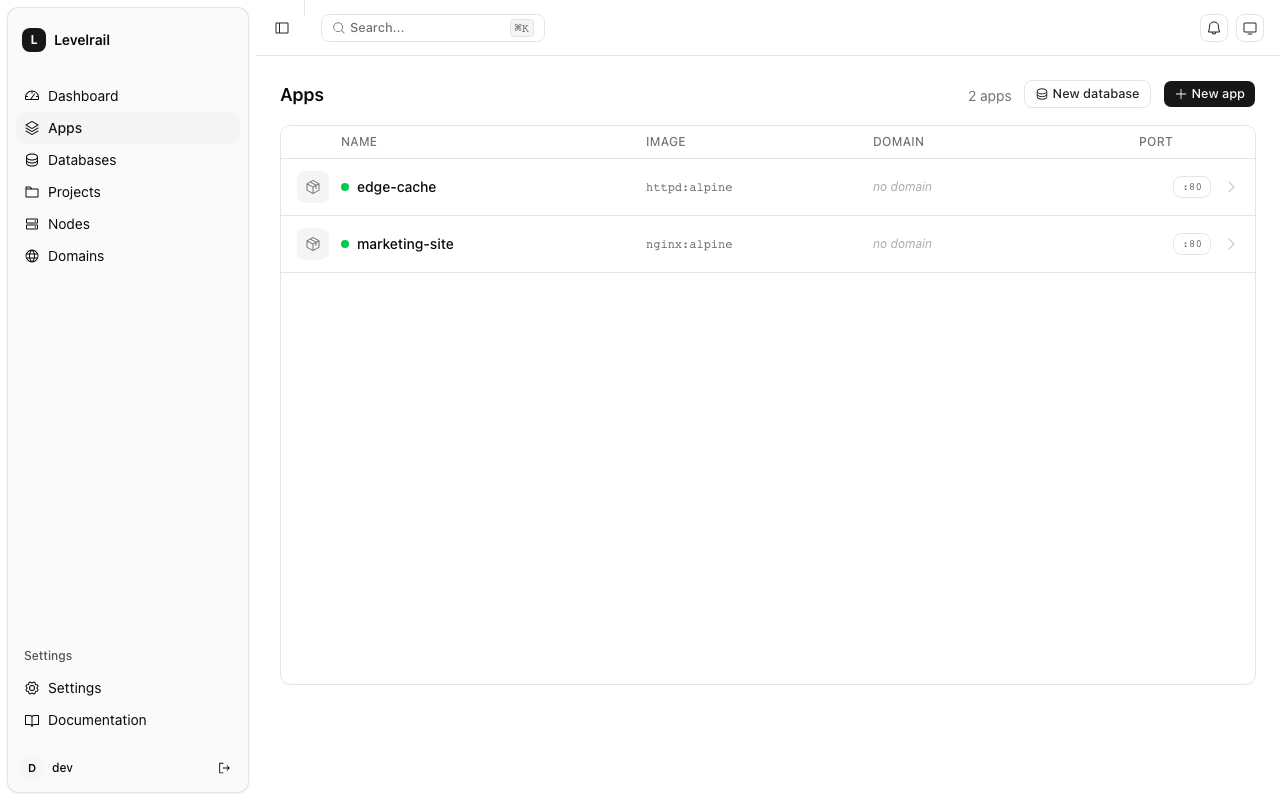
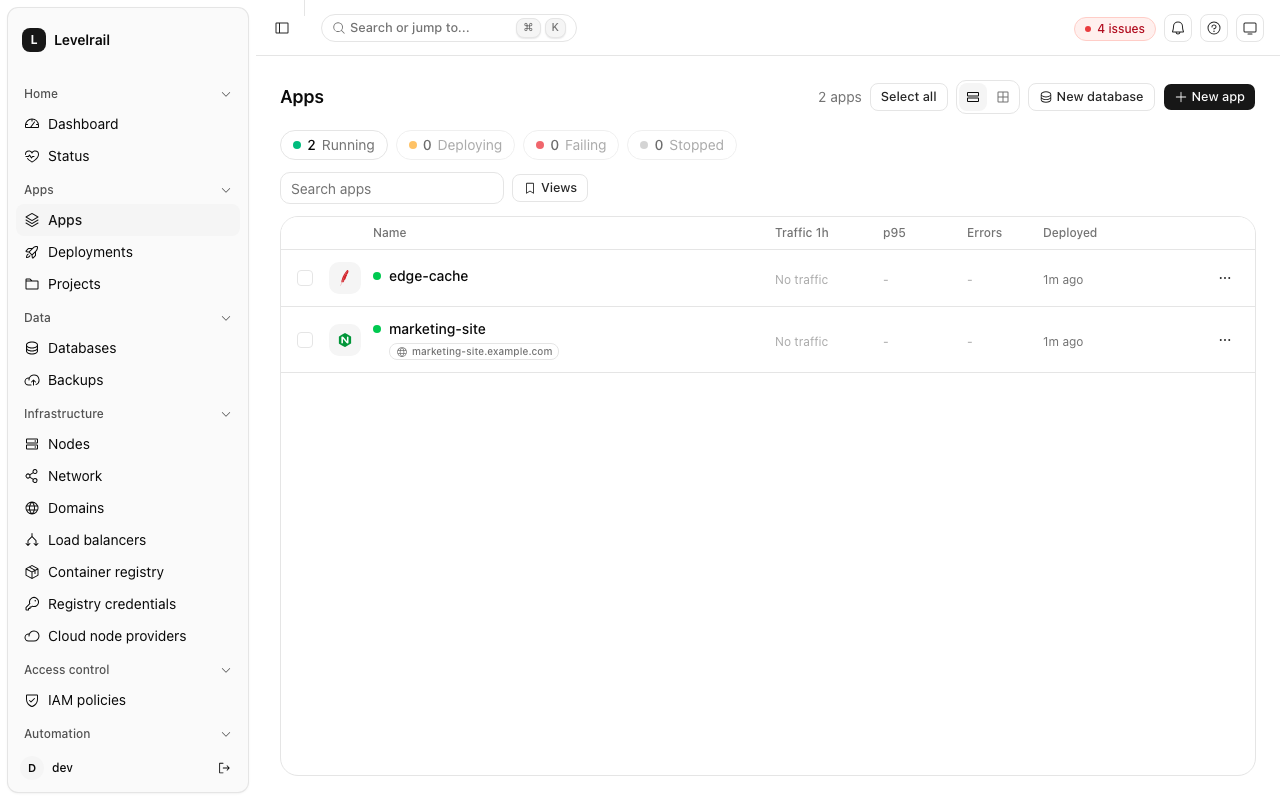
docs: capture and embed load balancer, app overview, and network screenshots
Fix capture.sh so the load balancer screenshot shows real upstreams
instead of an empty state: scale marketing-site to 2 replicas, give it
a domain (required for the ingress reconciler to plan a balancer), and
disable auto-placement so single-node reconciliation actually resolves
a transport. Add a network topology shot while the fixture apps are live.

diff --git a/docs/deploying-apps.md b/docs/deploying-apps.md
@@ -6,6 +6,8 @@ description: Creating, deploying, rolling back, and managing app lifecycle, heal
 
 Push an image or a git repo at the API, CLI, or dashboard wizard, and Levelrail turns it into a running container with health checks, rollback, and a full deploy history, no separate deploy tool needed. This page covers everything you do to an app after that first deploy: rolling back, promoting between environments, restarting, setting resource limits, and running one-off commands or scheduled tasks against it.
 
+![Levelrail app overview page with health status, setup checklist, and recent activity](assets/screenshots/app-overview-page.png)
+
 ::: details For contributors: where this lives in the source
 - Backend: `internal/api/apps.go`, `apps_multi.go`, `apps_compose.go`, `deploys.go`, `promote.go`, `exec.go`, `resources_live_apply.go`, `scheduled_tasks.go`
 - CLI: `cmd/levelrail-cli/apps*.go`

diff --git a/docs/load-balancing.md b/docs/load-balancing.md
@@ -95,6 +95,8 @@ The single node case and the multi-node case use the same code path. For a servi
 
 ## Live status
 
+![Levelrail load balancer view showing two healthy replicas behind a round robin proxy](assets/screenshots/load-balancer.png)
+
 **Load balancer** in the dashboard shows an upstream table refreshed every five seconds: state (`healthy`, `unhealthy`, `draining`), weight, active requests, recent failures, last check time and the reason a replica is out of the pool. The same data is available from `levelrail lb status web`, `GET /api/v1/apps/web/loadbalancer/status`, and the `get_app_load_balancer_status` MCP tool.
 
 The ingress controller reports a `LoadBalancer` condition with these reasons:

diff --git a/docs/network-topology.md b/docs/network-topology.md
@@ -6,6 +6,8 @@ description: Read the whole-mesh network topology view, how nodes group into zon
 
 The **Network** page shows every node, app, database, and load-balanced service on the mesh at once, grouped by node, with a line drawn between each app and the database it connects to. It's a read-only picture built from the same data the rest of the dashboard already has: nothing here needs its own configuration to start working.
 
+![Levelrail network topology view showing a node zone with its apps, mesh addresses, and a load-balanced service](assets/screenshots/network-topology.png)
+
 ```mermaid
 graph TB
   CP["Control plane<br/>GET /api/v1/network/topology"]
